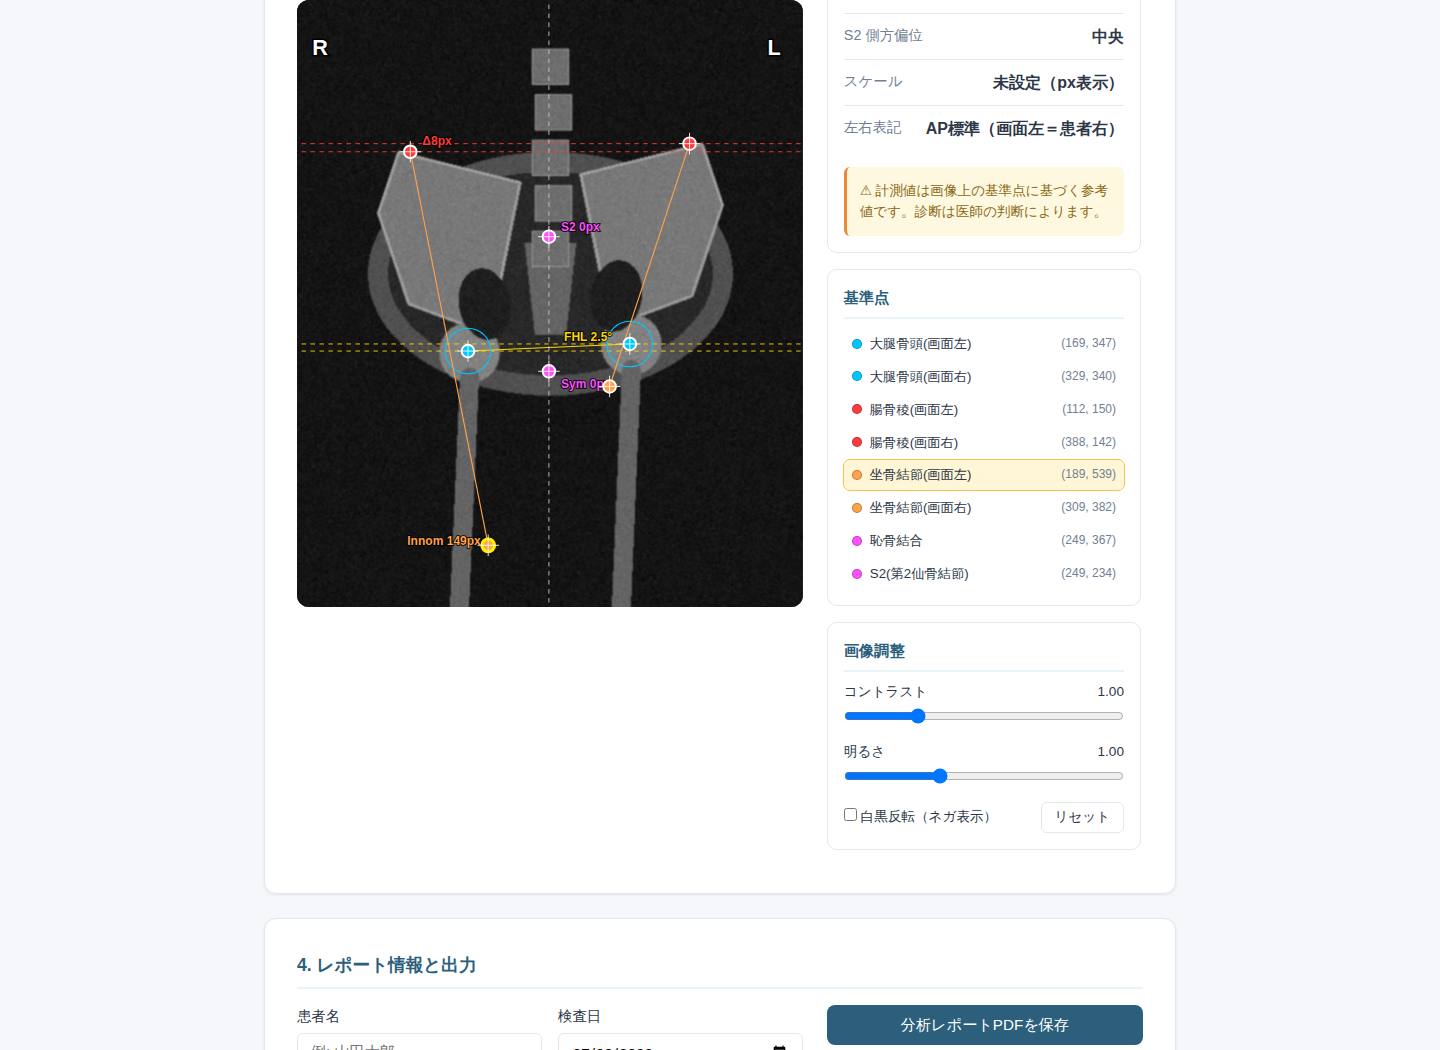
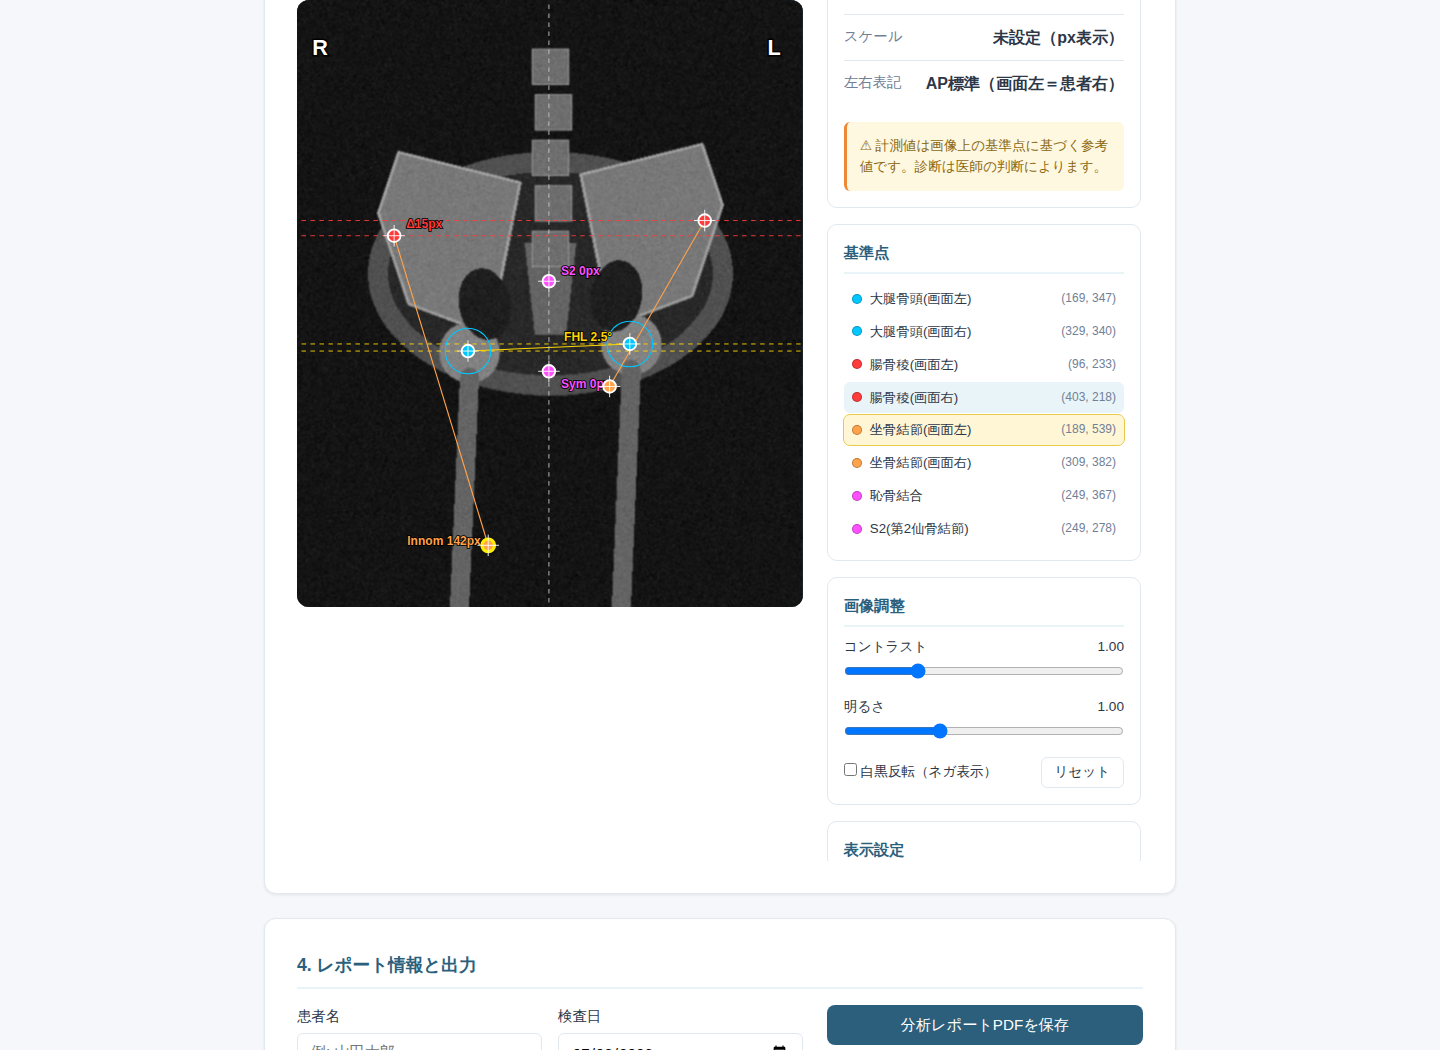
Harden iliac-crest detection against structures above the pelvis
Tried to source real AP pelvis films for tuning, but this sandbox's network
only reaches GitHub (Wikimedia/Radiopaedia/Zenodo/HuggingFace all blocked)
and clean committed pelvis radiographs are scarce there — the one obtained
was an annotated, cropped C-arm DRR, unusable as ground truth. So I built a
much more X-ray-realistic synthetic generator (soft-tissue gradient,
acetabular overlap, exposure/gamma/noise/rotation variation, lumbar-spine and
bowel-gas distractors) and used it to stress-test detection.

That surfaced a real, principled weakness: the old crest detector took the
topmost edge in a tall lateral band, so on any film that includes lower
lumbar spine / ribs it latched onto those instead of the iliac crest. Fixed
by taking the top of the LARGEST bright bony component in each lateral band
(the ilium), rejecting isolated distractor specks; falls back to the old
edge-scan if no bony mass is found. Femoral-head detection (Hough+blob) is
unchanged and still lands correctly.

Validated by eye on the clean sample (crest now on the iliac-wing corners)
and on a distractor-heavy realistic image (crest snaps to the wing tops
instead of the image top). Synthetic-battery crest error mean 0.071 -> 0.044;
detection-quality thresholds tightened to lock the gain. 29 unit tests +
detection-quality suite pass; JS mirror and Gonstead E2E re-confirmed.

Caveat unchanged: synthetic tuning is not a substitute for a real film — the
[…]

diff --git a/modules/xray_analyzer.py b/modules/xray_analyzer.py
@@ -112,7 +112,7 @@ def detect_landmarks(image_bytes: bytes, analysis_type: str) -> dict:
     elif analysis_type == "spine_alignment":
         landmarks = _detect_spine(edges, h, w)
     else:
-        landmarks = _detect_iliac_crests(edges, h, w)
+        landmarks = _detect_iliac_crests(gray, edges, h, w)
 
     return {
         "analysis_type": analysis_type,
@@ -211,25 +211,50 @@ def _detect_femoral_heads(gray, edges, h, w):
     ]
 
 
-def _detect_iliac_crests(edges, h, w):
-    """腸骨稜 = 骨盤上部で最も高い(上の)骨縁。左右の帯で上縁エッジを走査する。"""
-    y0, y1 = int(h * 0.12), int(h * 0.60)
+def _detect_iliac_crests(gray, edges, h, w, y0=None, y1=None):
+    """腸骨稜 = 腸骨(大きな骨塊)の最上点。左右の帯で「最大の骨塊の頂点」を採る。
+
+    単純な上縁エッジ走査だと、腸管ガスの縁や孤立した点など骨盤より上/外の構造を
+    拾いやすい。ここでは各帯で高輝度(骨)領域の連結成分を求め、最大成分の頂点を
+    腸骨稜とみなすことで、孤立した妨害構造を排除する。y1 で下限を制限できる。
+    """
+    y0 = int(h * 0.10) if y0 is None else max(0, int(y0))
+    y1 = int(h * 0.60) if y1 is None else min(h, int(y1))
+    if y1 - y0 < h * 0.10:            # 範囲が潰れたら既定に戻す
+        y0, y1 = int(h * 0.10), int(h * 0.60)
 
     def crest_in_band(x0, x1):
+        sub = gray[y0:y1, x0:x1]
+        if sub.size == 0:
+            return (x0 + x1) // 2, int(h * 0.35)
+        # 骨=高輝度を二値化し、最大の骨塊(腸骨)の頂点を採る
+        thr = np.percentile(sub, 75)
+        _, bw = cv2.threshold(sub, float(thr), 255, cv2.THRESH_BINARY)
+        bw = cv2.morphologyEx(bw.astype(np.uint8), cv2.MORPH_OPEN,
+                              cv2.getStructuringElement(cv2.MORPH_ELLIPSE, (5, 5)))
+        n, lbl, stats, _ = cv2.connectedComponentsWithStats(bw, connectivity=8)
+        best, min_area = None, (x1 - x0) * (y1 - y0) * 0.03
+        for i in range(1, n):
+            a = stats[i, cv2.CC_STAT_AREA]
+            if a < min_area:
+                continue
+            if best is None or a > stats[best, cv2.CC_STAT_AREA]:
+                best = i
+        if best is not None:
+            ys, xs = np.where(lbl == best)
+            top = int(ys.min())
+            tx = int(np.median(xs[ys <= top + max(2, int((y1 - y0) * 0.02))])) + x0
+            return tx, top + y0
+        # フォールバック: 従来の上縁エッジ走査
         band = edges[y0:y1, x0:x1]
-        tops = []
-        for col in range(band.shape[1]):
-            ys = np.where(band[:, col] > 0)[0]
-            if len(ys):
-                tops.append((ys[0], col))
+        tops = [(np.where(band[:, c] > 0)[0][0], c)
+                for c in range(band.shape[1]) if band[:, c].any()]
         if not tops:
             return (x0 + x1) // 2, int(h * 0.35)
-        # ノイズ対策: 上端候補のうち上位25%の中央値を採る
-        tops.sort(key=lambda t: t[0])
+        tops.sort()
         take = tops[: max(3, len(tops) // 4)]
-        ty = int(np.median([t[0] for t in take])) + y0
-        tx = int(np.median([t[1] for t in take])) + x0
-        return tx, ty
+        return (int(np.median([t[1] for t in take])) + x0,
+                int(np.median([t[0] for t in take])) + y0)
 
     lx, ly = crest_in_band(int(w * 0.18), int(w * 0.44))
     rx, ry = crest_in_band(int(w * 0.56), int(w * 0.82))
@@ -272,7 +297,9 @@ def _detect_pelvis_full(gray, edges, h, w):
     解剖学的な妥当位置を初期値として与え、術者の補正を前提とする。
     """
     femoral = _detect_femoral_heads(gray, edges, h, w)
-    iliac = _detect_iliac_crests(edges, h, w)
+    # 大腿骨頭の下方(≒骨盤下部)は腸骨稜ではないので下限だけ制限する。
+    fem_y0 = (femoral[0]["y"] + femoral[1]["y"]) / 2
+    iliac = _detect_iliac_crests(gray, edges, h, w, y1=fem_y0 - h * 0.05)
 
     fl, fr = femoral[0], femoral[1]
     il, ir = iliac[0], iliac[1]

diff --git a/tests/test_detection_quality.py b/tests/test_detection_quality.py
@@ -91,9 +91,9 @@ def test_femoral_head_detection_accuracy():
 
 def test_iliac_crest_detection_accuracy():
     _, crest = _run_battery()
-    # 腸骨稜は上縁走査で相対的に難しい。gross な破綻のみ検出。
-    assert crest.mean() < 0.11, f"crest mean error regressed: {crest.mean():.3f}"
-    assert crest.max() < 0.20, f"crest max error regressed: {crest.max():.3f}"
+    # 連結成分ベースで最大の骨塊(腸骨)頂点を採る方式。現状 mean~0.044/max~0.14。
+    assert crest.mean() < 0.07, f"crest mean error regressed: {crest.mean():.3f}"
+    assert crest.max() < 0.18, f"crest max error regressed: {crest.max():.3f}"
 
 
 if __name__ == "__main__":
